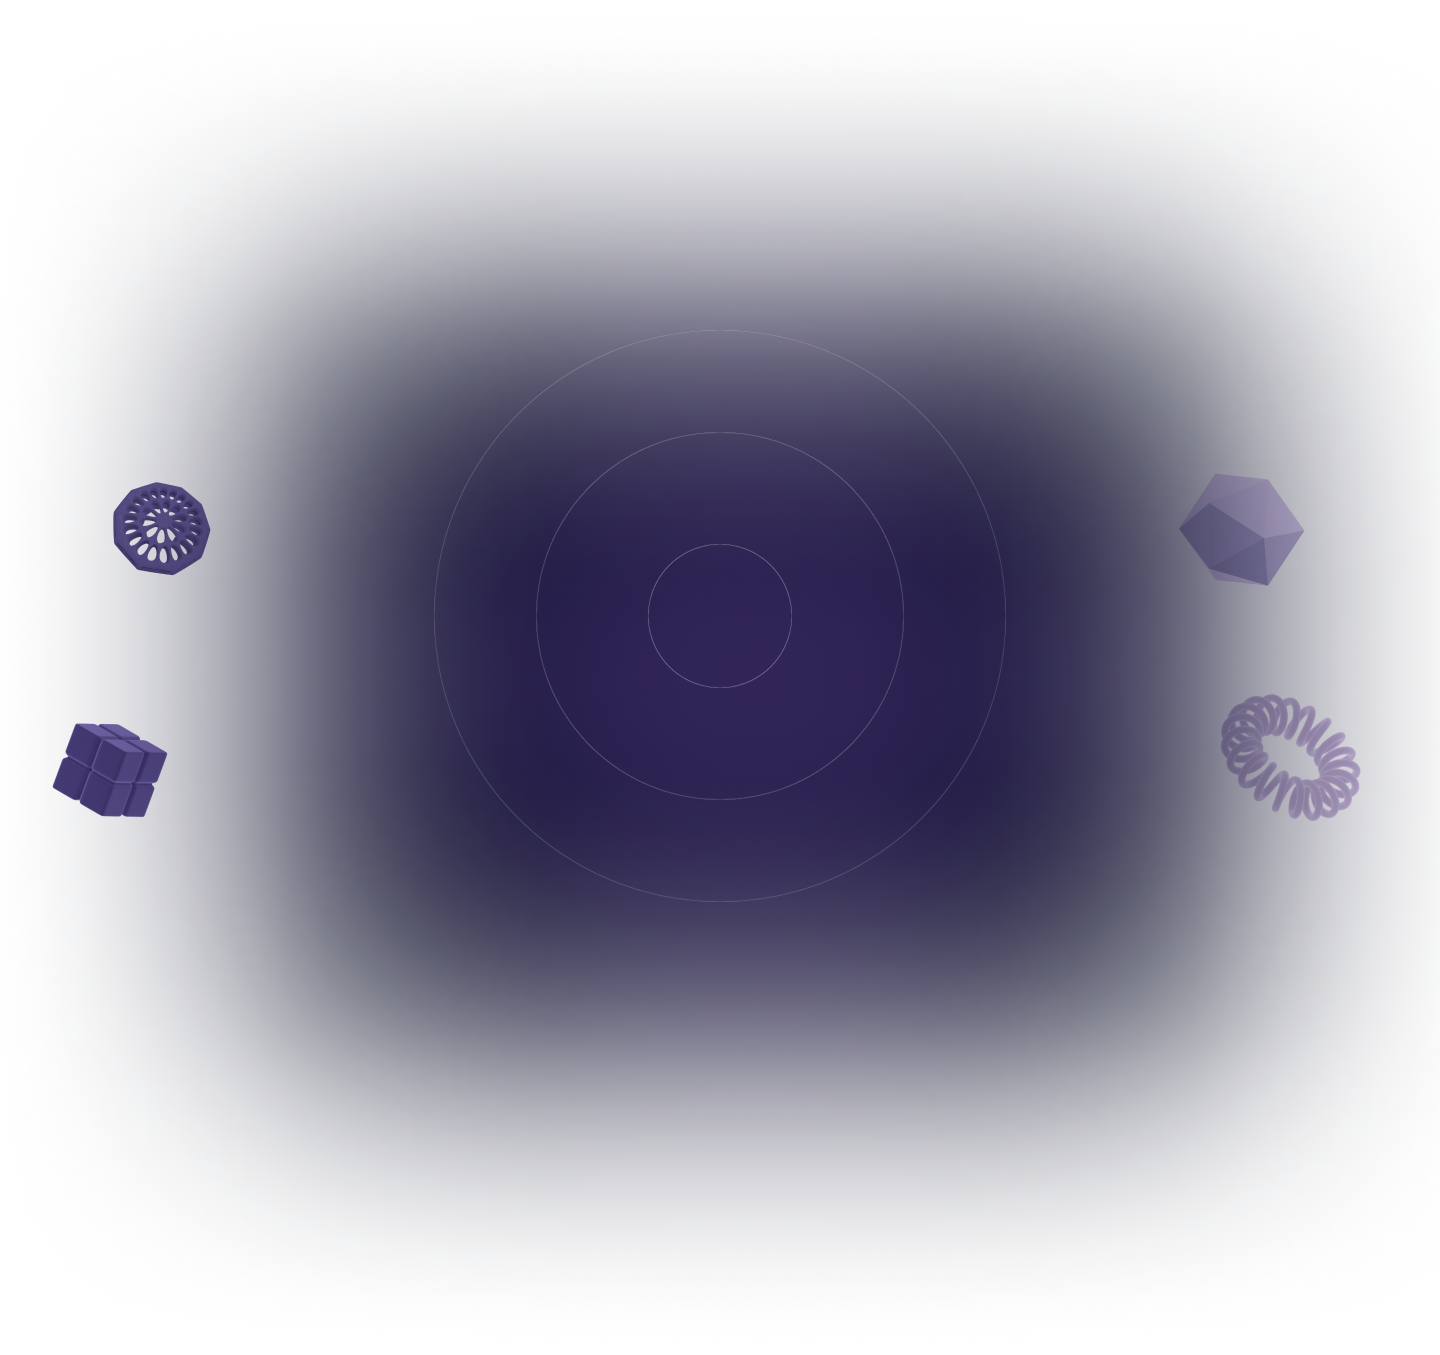
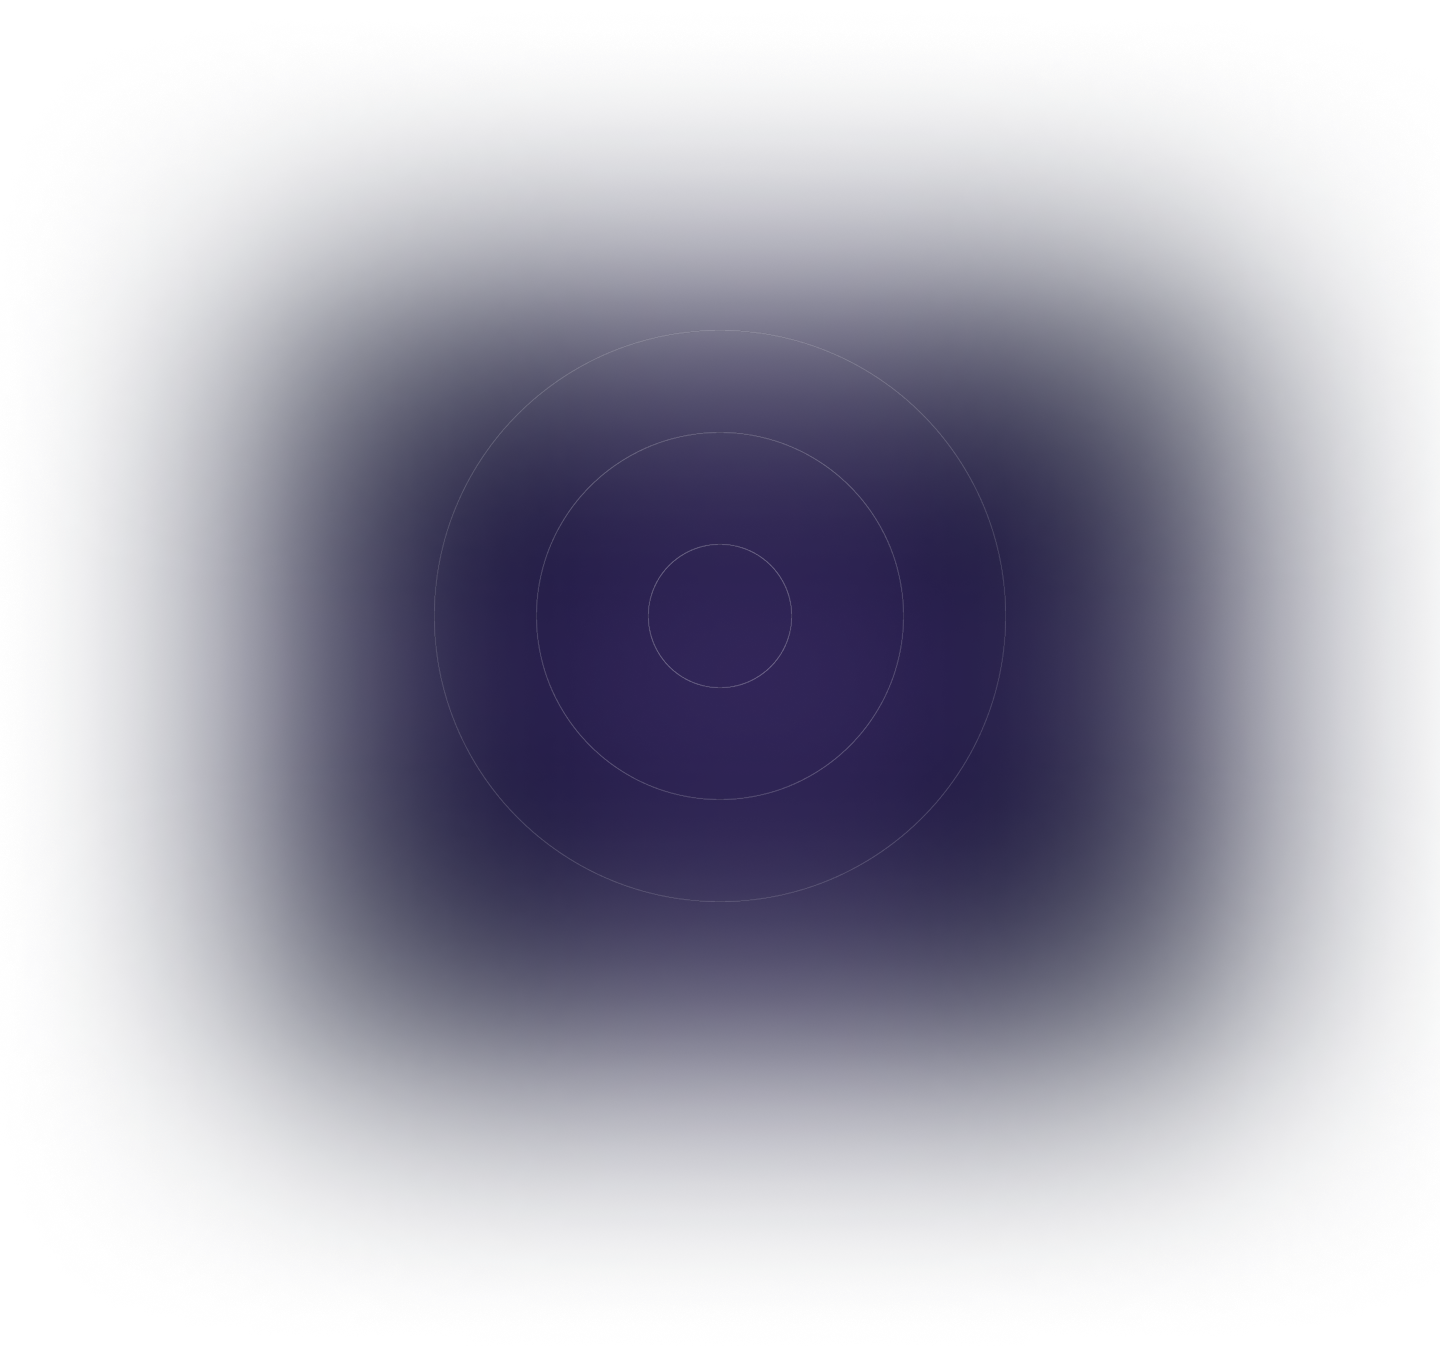
fix

diff --git a/web/src/components/sections/PainSection.tsx b/web/src/components/sections/PainSection.tsx
@@ -1,11 +1,27 @@
+import Image from "next/image";
+
 export default function PainSection() {
   return (
     <section
       className="relative bg-center py-12 sm:py-16 md:py-20 "
       id="pain"
-      style={{ backgroundImage: "url(/painsection/bg.png)", backgroundSize: "cover", backgroundRepeat: "no-repeat" }}
+      style={{ backgroundImage: "url(/painsection/bg.png)", backgroundSize: "90%", backgroundRepeat: "no-repeat" }}
     >
       {/* <div className="absolute inset-0 z-0 pointer-events-none bg-gradient-to-b from-transparent via-[#4B2E83]/10 to-[#070C20]/40" /> */}
+      <div className="max-w-6xl min-h-[70vh] mx-auto absolute inset-0 pointer-events-none z-0">
+        <div className="absolute left-0 top-22 sm:left-8 sm:top-16">
+          <Image src="/painsection/left1.png" alt="Left decorative 1" width={96} height={96} className="opacity-80" />
+        </div>
+        <div className="absolute left-10 bottom-12 sm:left-10 sm:bottom-16">
+          <Image src="/painsection/left2.png" alt="Left decorative 2" width={96} height={96} className="opacity-80" />
+        </div>
+        <div className="absolute right-6 top-22 sm:right-10 sm:top-16">
+          <Image src="/painsection/right1.png" alt="Right decorative 1" width={96} height={96} className="opacity-80" />
+        </div>
+        <div className="absolute right-4 bottom-12 sm:right-8 sm:bottom-16">
+          <Image src="/painsection/right2.png" alt="Right decorative 2" width={96} height={96} className="opacity-80" />
+        </div>
+      </div>
       <div className="relative min-h-[100vh] gap-6 z-10 max-w-7xl flex flex-col justify-center items-center mx-auto px-6 text-center">
         <div className="mb-2 gap-2">
           <span

diff --git a/web/src/components/sections/HeroSection.tsx b/web/src/components/sections/HeroSection.tsx
@@ -6,7 +6,7 @@ export default function HeroSection() {
     <section
       className="relative py-12 sm:py-16 md:py-20 overflow-hidden bg-top bg-no-repeat min-h-[720px]"
       id="hero"
-      style={{ backgroundImage: "url(/hero/bg.png)", backgroundSize: "cover", }}
+      style={{ backgroundImage: "url(/hero/bg.png)", backgroundSize: "cover", backgroundPosition: "bottom center" }}
     >
       <Navbar />
       <div className="relative h-[80vh] mt-10 sm:mt-16 md:mt-20 z-10  mx-auto text-center  flex flex-col justify-center item-center font-hero">
